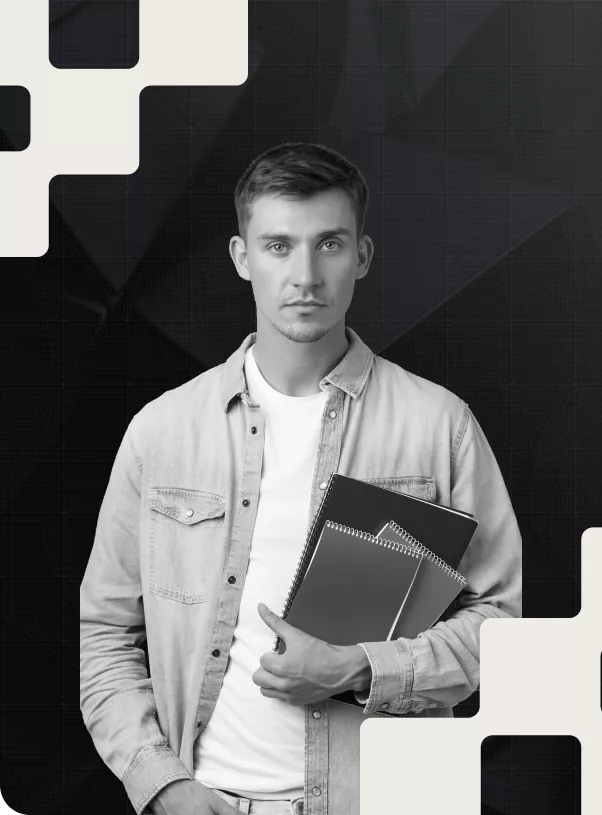
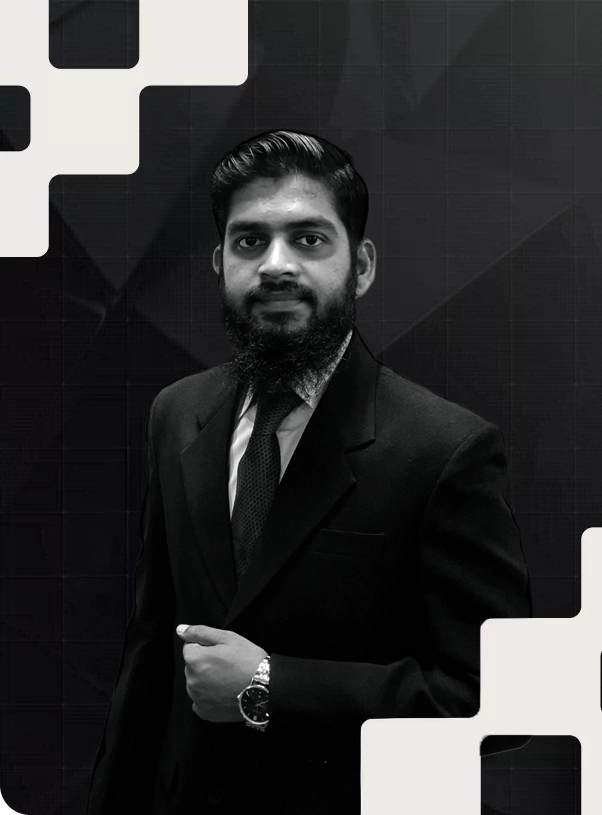
Add hero image and about image and update contact details

diff --git a/src/components/Footer.jsx b/src/components/Footer.jsx
@@ -44,21 +44,21 @@ const socialLinks = [
 const contactLinks = [
   {
     id: 1,
-    text: "jefferycannon@gmail.com",
+    text: "mohsinbest57@gmail.com",
     iconPath: "/images/email.svg",
-    link: "mailto:jefferycannon@gmail.com",
+    link: "mailto:mohsinbest57@gmail.com",
   },
   {
     id: 2,
-    text: "+91 91813 23 2309",
+    text: "+92 347 2436 445",
     iconPath: "/images/phone-blue.svg",
-    link: "tel:+91 91813 23 2309",
+    link: "tel:+92 347 2436 445",
   },
   {
     id: 3,
-    text: "Somewhere in the World",
+    text: "Karachi, Pakistan",
     iconPath: "/images/location.svg",
-    link: "/location",
+    link: "#",
   },
 ];
 
@@ -120,11 +120,12 @@ const Footer = () => {
       </div>
 
       <div className="bottom flex justify-between py-8 max-sm:flex-col max-sm:gap-1 max-sm:pt-2 max-[1025px]:flex-col max-[1025px]:gap-1">
-        <p className="text-light-grey text-lg max-sm:text-center max-sm:text-sm">
+        <p className="text-gray text-lg max-sm:text-center max-sm:text-sm">
           Copyright © 2025 Mohsin Alam. All rights reserved.
         </p>
-        <p className="text-light-grey text-lg max-sm:text-center max-sm:text-sm">
-          Designed with ❤ by Me and Developed By{" "}
+        <p className="text-gray text-lg max-sm:text-center max-sm:text-sm">
+          Designed with <span className="text-red-600">❤</span> by Me and
+          Developed By{" "}
           <NavLink
             className="text-gray underline"
             to="https://www.linkedin.com/in/hassan-ahmed-khan-533772233/"

diff --git a/src/components/contact/ContactDetails.jsx b/src/components/contact/ContactDetails.jsx
@@ -3,21 +3,21 @@ import ContactForm from "./ContactForm";
 const contactDetails = [
   {
     id: 1,
-    mainText: "jefferycannon@gmail.com",
+    mainText: "mohsinbest57@gmail.com",
     subText: "You can email me here",
-    link: "mailto:jefferycannon@gmail.com",
+    link: "mailto:mohsinbest57@gmail.com",
   },
   {
     id: 2,
-    mainText: "+91 91813 23 2309",
+    mainText: "+92 347 2436 445",
     subText: "Give me a call on",
-    link: "tel:+91 91813 23 2309",
+    link: "tel:+92 347 2436 445",
   },
   {
     id: 3,
-    mainText: "Somewhere in the World",
+    mainText: "Karachi, Pakistan",
     subText: "Location",
-    link: "/location",
+    link: "#",
   },
 ];
 

diff --git a/src/components/about/PersonalDetails.jsx b/src/components/about/PersonalDetails.jsx
@@ -3,10 +3,7 @@ const PersonalDetails = () => {
     <section className="about-section container bottom-padded pt-15 max-sm:pt-0 flex justify-between max-sm:flex-col max-sm:gap-7.5">
       <div className="col-1 w-[45%] max-sm:w-full">
         <picture>
-          <source
-            srcSet="/images/aboutImageMobile.webp"
-            media="(max-width: 767px)"
-          />
+          <source srcSet="/images/aboutImage.webp" media="(max-width: 767px)" />
           <source srcSet="/images/aboutImage.webp" media="(min-width: 768px)" />
           <img
             className="w-full"

diff --git a/src/components/home/Hero.jsx b/src/components/home/Hero.jsx
@@ -63,10 +63,7 @@ const Hero = () => {
       </div>
       <div className="col-2 w-[40%] max-sm:w-full">
         <picture>
-          <source
-            srcSet="/images/heroImageMobile.webp"
-            media="(max-width: 767px)"
-          />
+          <source srcSet="/images/heroImage.webp" media="(max-width: 767px)" />
           <source srcSet="/images/heroImage.webp" media="(min-width: 768px)" />
           <img
             className="w-full"
